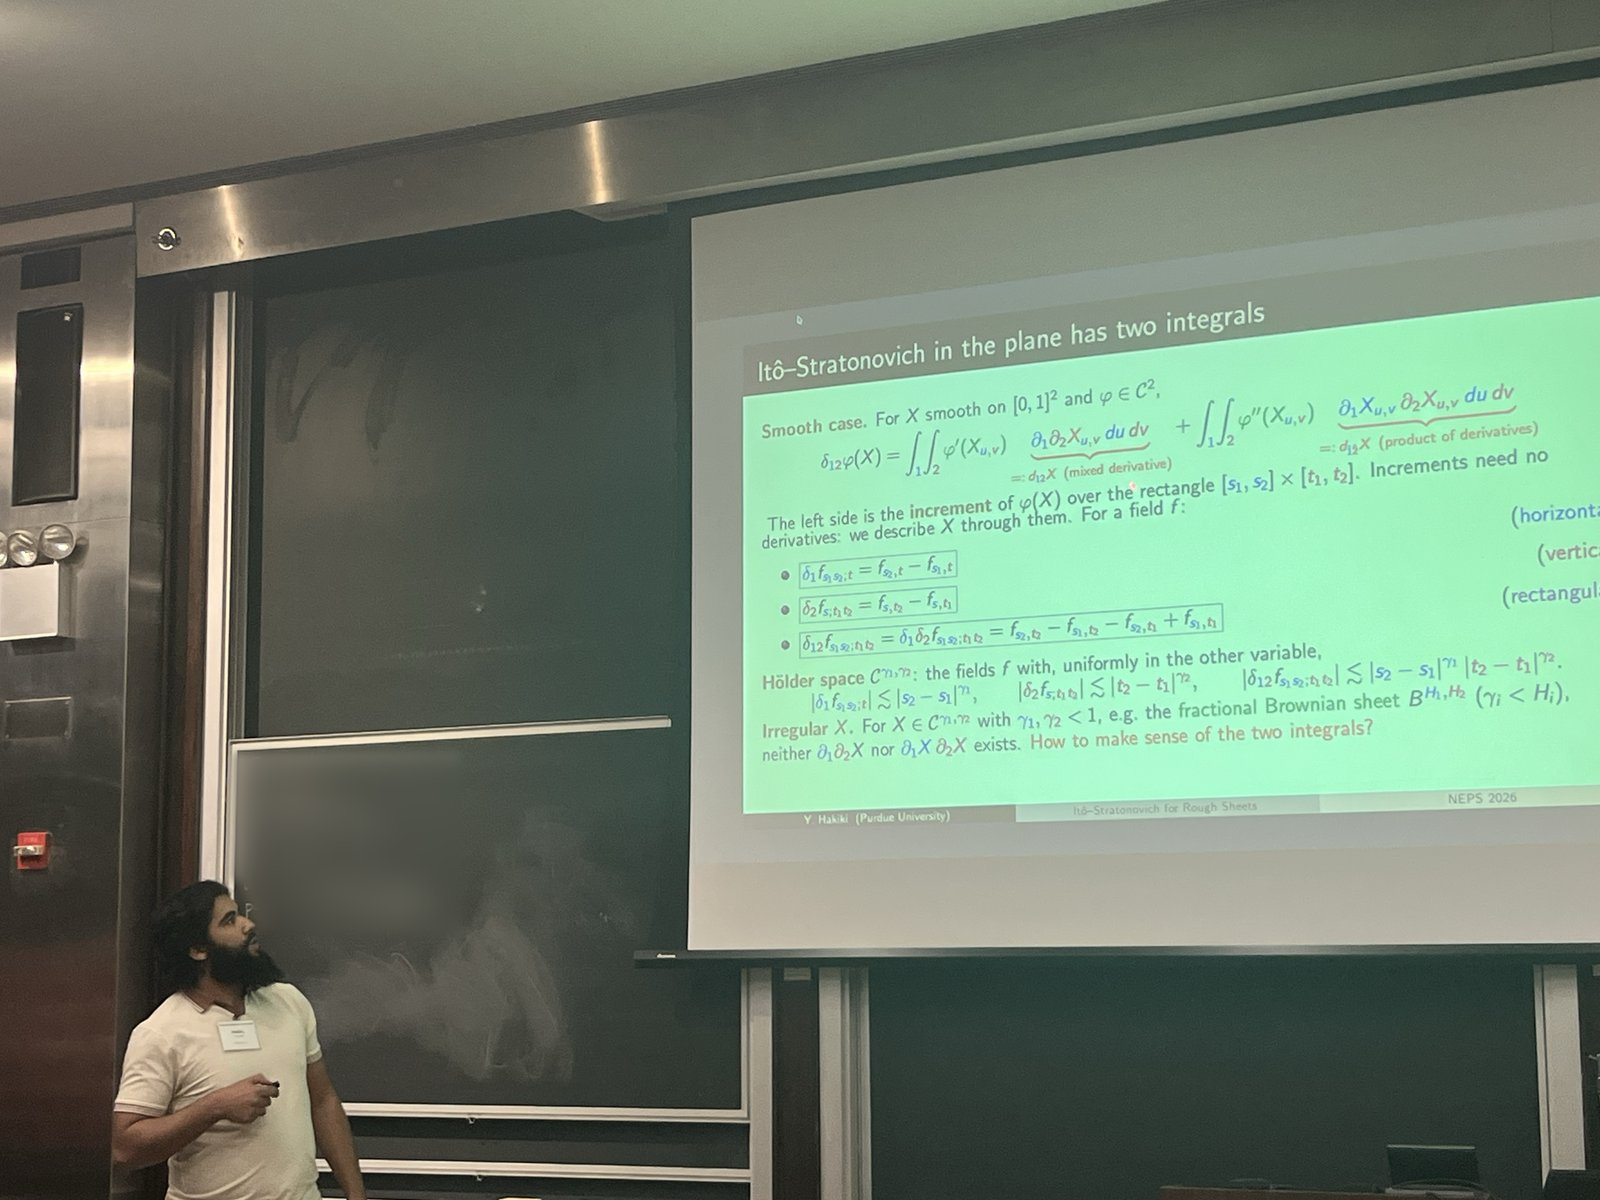
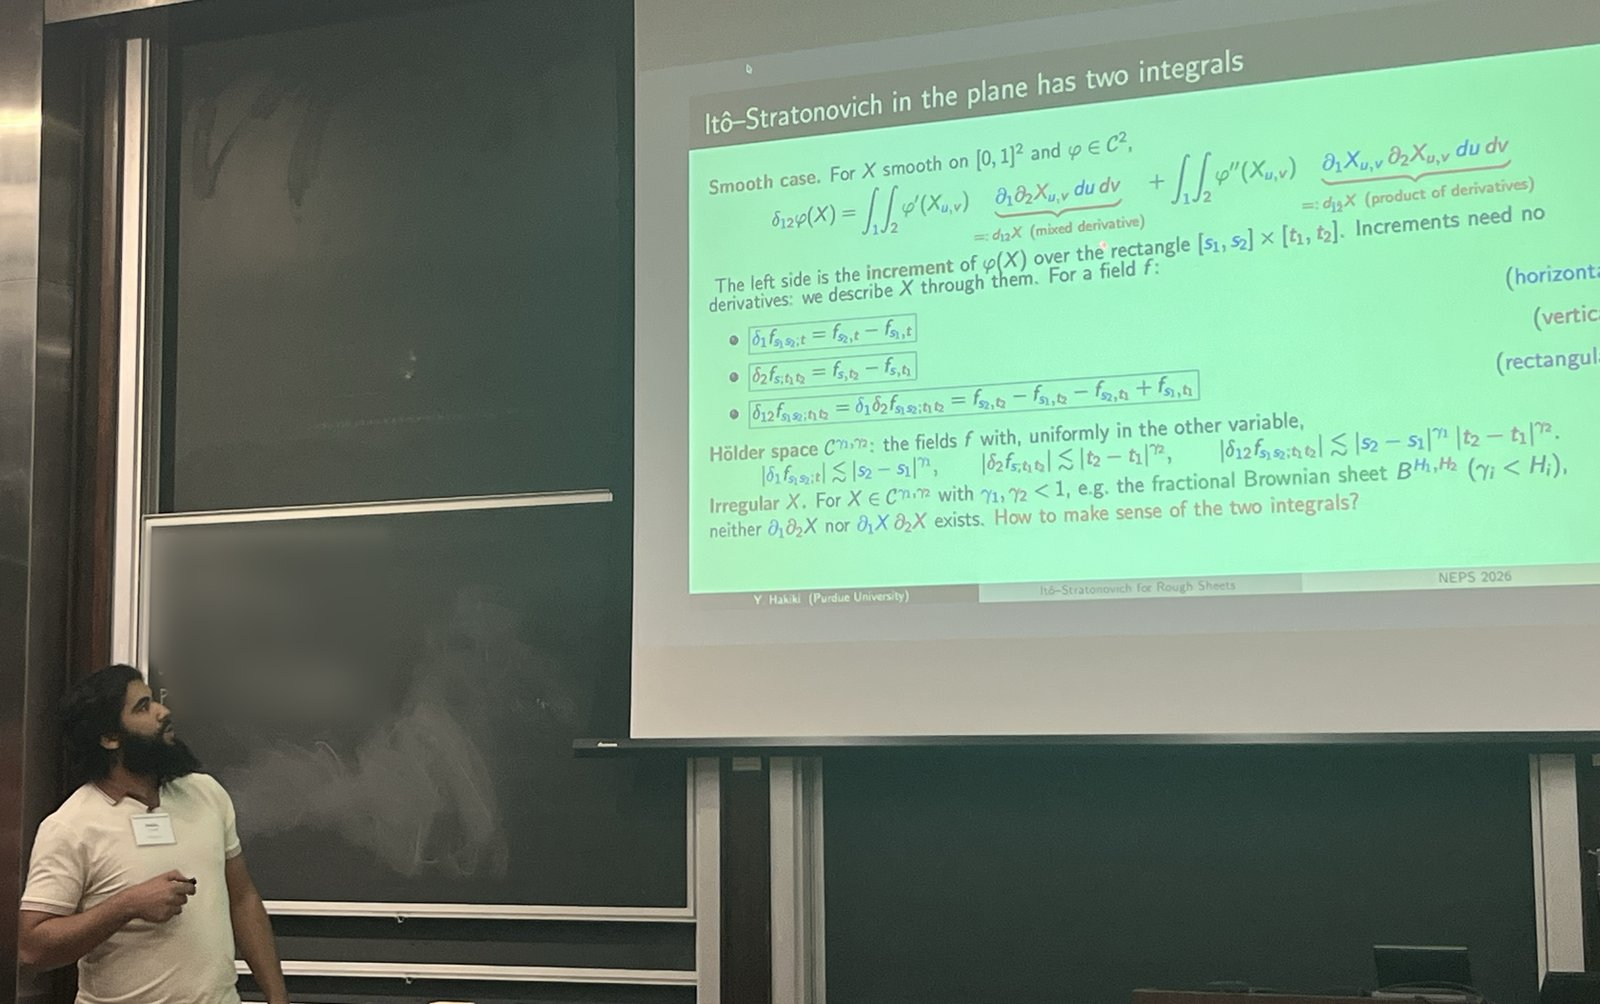
Crop and enlarge home page talk photo; simplify hero text; rewrite About education history
Photo cropped to the speaker and slides and given more width. Removed the CV/Publications buttons, stacked the emails, and put Purdue University on its own line. About now lists the Master's, Bachelor's and high school instead of the Rice research assistant role.

diff --git a/index.html b/index.html
@@ -33,20 +33,18 @@
       <div class="hero-text">
         <h1>Youssef Hakiki</h1>
         <div class="role">Golomb Visiting Assistant Professor</div>
-        <div class="institution">Department of Mathematics, Purdue University</div>
-        <div class="contact-row">
+        <div class="institution">Department of Mathematics<br>Purdue University</div>
+        <div class="contact-row contact-stack">
           <a href="mailto:yhakiki@purdue.edu">yhakiki@purdue.edu</a>
           <a href="mailto:youssefhakiki55@gmail.com">youssefhakiki55@gmail.com</a>
-          <a href="https://github.com/yhakiki" target="_blank" rel="noopener">GitHub</a>
-          <span>West Lafayette, IN</span>
-        </div>
-        <div class="btn-row">
-          <a class="btn primary" href="assets/CV_Youssef_Hakiki.pdf" target="_blank" rel="noopener">Download CV (PDF)</a>
-          <a class="btn ghost" href="publications.html">Publications</a>
+          <div class="contact-line">
+            <a href="https://github.com/yhakiki" target="_blank" rel="noopener">GitHub</a>
+            <span>West Lafayette, IN</span>
+          </div>
         </div>
       </div>
       <figure class="talk-photo">
-        <img src="assets/talk_nepsem_2026.jpg" alt="Youssef Hakiki giving a talk at the Northeast Probability Seminar, with his slides on the It&ocirc;&ndash;Stratonovich formula for rough sheets projected next to him" width="1600" height="1200" fetchpriority="high">
+        <img src="assets/talk_nepsem_2026.jpg" alt="Youssef Hakiki giving a talk at the Northeast Probability Seminar, with his slides on the It&ocirc;&ndash;Stratonovich formula for rough sheets projected next to him" width="1600" height="1004" fetchpriority="high">
         <figcaption>My talk at the Northeast Probability Seminar, November 2026.</figcaption>
       </figure>
     </div>
@@ -57,7 +55,11 @@
     <p>
       I am a Golomb Visiting Assistant Professor in the Department of Mathematics at Purdue
       University. I hold a Ph.D. in Probability Theory (July 2024) from the Faculty of Sciences
-      at Cadi Ayyad University, Morocco, supervised by Professor Mohamed Erraoui. Before that, I was a research assistant at William Marsh Rice University.
+      at Cadi Ayyad University, Morocco, supervised by Professor Mohamed Erraoui. Before my Ph.D.,
+      I received a Master&rsquo;s degree in Probability and Statistics (2018) from the same faculty,
+      and before that a Bachelor&rsquo;s degree in Mathematics (2016) from the Faculty of Science and
+      Technology at Cadi Ayyad University. I obtained my high school diploma (2013) from Abi Abbas
+      Essabti High School in Marrakech.
     </p>
     <p>
       My research lies in probability theory, at the interface of rough path theory, the sample

diff --git a/assets/style.css b/assets/style.css
@@ -311,13 +311,15 @@ footer.site a:hover { color: var(--accent); }
 
 /* Talk photo on the home page: beside the name on wide screens, above it on phones,
    so it is visible on the first screen without scrolling */
-.hero-text { flex: 1 1 320px; min-width: 0; }
-.talk-photo { margin: 0; flex: 1 1 300px; max-width: 380px; }
-@media (max-width: 600px) {
+.hero-grid { flex-wrap: nowrap; gap: 32px; }
+.hero-text { flex: 0 0 auto; }
+.talk-photo { margin: 0; flex: 1 1 0; min-width: 0; }
+.contact-stack { flex-direction: column; align-items: flex-start; gap: 2px; }
+.contact-line { display: flex; gap: 16px; flex-wrap: wrap; }
+@media (max-width: 680px) {
   .hero { padding-top: 28px; }
-  .hero-grid { gap: 24px; }
-  .hero-text { flex-basis: auto; }
-  .talk-photo { order: -1; max-width: 100%; width: 100%; flex-basis: auto; }
+  .hero-grid { flex-direction: column; align-items: flex-start; gap: 24px; }
+  .talk-photo { order: -1; width: 100%; flex: none; }
 }
 .talk-photo img {
   display: block;
